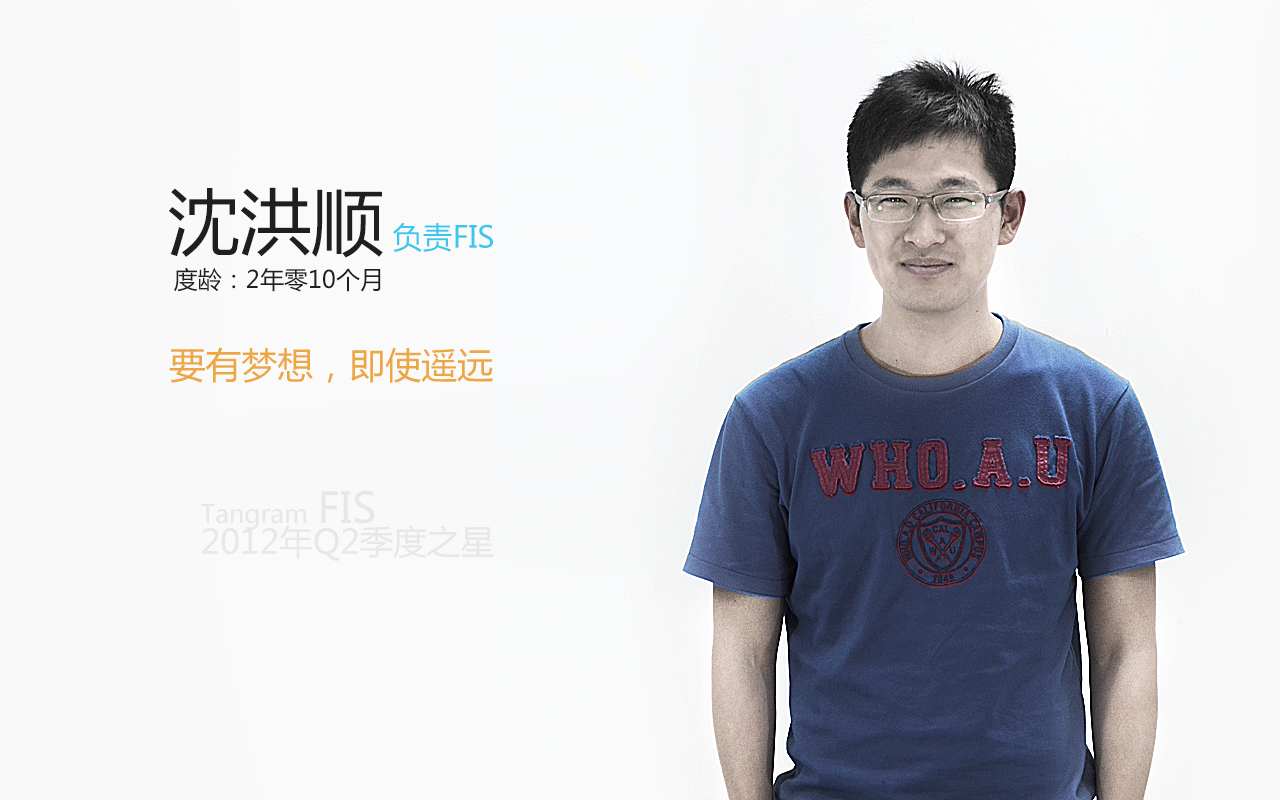
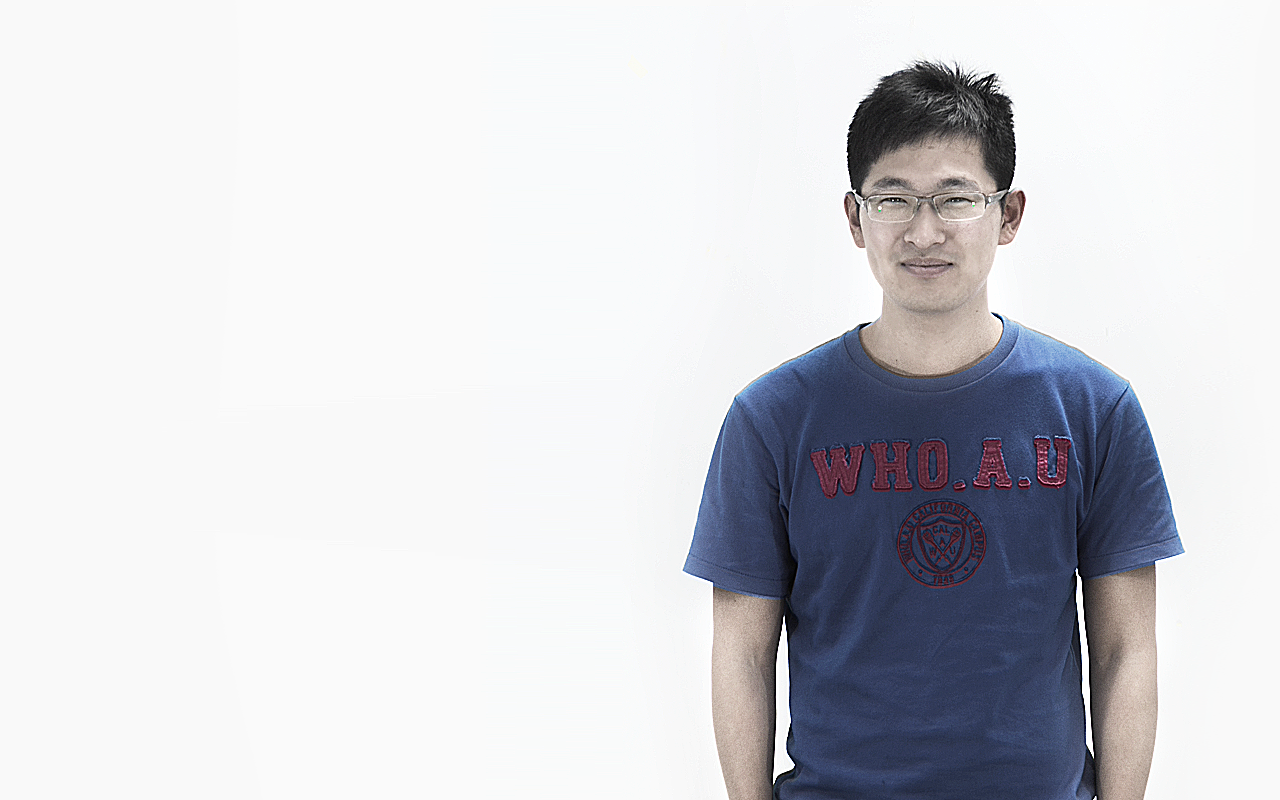
archive layers

Changed region(s): [[0.125, 0.2188, 0.4062, 0.375], [0.125, 0.4375, 0.4062, 0.5]]

diff --git a/fex/fe.css b/fex/fe.css
@@ -68,7 +68,7 @@ body,html,div{overflow:hidden;margin:0;padding:0;font-family:Arial,'Helvetica Ne
 #product .ueditor .download{width:120px;height:35px;position:absolute;left:939px;top:466px;background:url("topic/ueditor/download.png") no-repeat;padding-top:94px;color:#fff;font:30.29px "Microsoft YaHei"}
 #product .ueditor .specialty{width:120px;height:35px;position:absolute;left:1122px;top:466px;background:url("topic/ueditor/specialty.png") no-repeat;padding-top:94px;color:#fff;font:30.29px "Microsoft YaHei"}
 #archive{background-color:#f9f9f9;z-index:200}#archive h1{text-align:center;font-size:50px;font-weight:normal;margin:0 auto;padding-top:250px;color:#888;z-index:201}
-#archive #head-container{text-align:center;overflow:visible;position:absolute;bottom:30px;left:0;right:0;height:100px}#archive #head-container .archive-head{width:100px;height:100px;background:url(archive/heads.png);border:solid 3px #fff;border-radius:100px;display:inline-block;position:absolute;opacity:0;z-index:201;left:0;-webkit-tap-highlight-color:rgba(0,0,0,0);-moz-tap-highlight-color:rgba(0,0,0,0);-ms-tap-highlight-color:rgba(0,0,0,0);-o-tap-highlight-color:rgba(0,0,0,0);overflow:visible;-webkit-transition:all .25s ease;-moz-transition:all .25s ease;-ms-transition:all .25s ease;-o-transition:all .25s ease;transition:all .25s ease;-webkit-transform:scale(.5);-moz-transform:scale(.5);-ms-transform:scale(.5);-o-transform:scale(.5);transform:scale(.5)}#archive #head-container .archive-head:after{content:' ';display:block;width:106px;height:106px;border-radius:106px;border:6px solid rgba(0,0,0,0.4);position:absolute;left:-9px;top:-9px}
+#archive #head-container{text-align:center;overflow:visible;position:absolute;bottom:30px;left:0;right:0;height:100px;z-index:210}#archive #head-container .archive-head{width:100px;height:100px;background:url(archive/heads.png);border:solid 3px #fff;border-radius:100px;display:inline-block;position:absolute;opacity:0;z-index:201;left:0;-webkit-tap-highlight-color:rgba(0,0,0,0);-moz-tap-highlight-color:rgba(0,0,0,0);-ms-tap-highlight-color:rgba(0,0,0,0);-o-tap-highlight-color:rgba(0,0,0,0);overflow:visible;-webkit-transition:all .25s ease;-moz-transition:all .25s ease;-ms-transition:all .25s ease;-o-transition:all .25s ease;transition:all .25s ease;-webkit-transform:scale(.5);-moz-transform:scale(.5);-ms-transform:scale(.5);-o-transform:scale(.5);transform:scale(.5)}#archive #head-container .archive-head:after{content:' ';display:block;width:106px;height:106px;border-radius:106px;border:6px solid rgba(0,0,0,0.4);position:absolute;left:-9px;top:-9px}
 #archive #head-container .archive-head.current{-webkit-transform:scale(1);-moz-transform:scale(1);-ms-transform:scale(1);-o-transform:scale(1);transform:scale(1)}
 #archive #head-container .archive-head.m1{background-position:0 0}
 #archive #head-container .archive-head.m2{background-position:-100px 0}
@@ -78,7 +78,8 @@ body,html,div{overflow:hidden;margin:0;padding:0;font-family:Arial,'Helvetica Ne
 #archive #head-container .archive-head.m6{background-position:-500px 0}
 #archive #head-container .archive-head.m7{background-position:-600px 0}
 #archive #head-container .archive-head.m8{background-position:-700px 0}
-#archive #archive-container{position:absolute;bottom:0;width:1280px;height:800px;top:50%;margin-top:-400px;left:50%;margin-left:-640px}#archive #archive-container img{position:absolute}
+#archive #archive-container,#archive #word-container{position:absolute;bottom:0;width:1280px;height:800px;top:50%;margin-top:-400px;left:50%;margin-left:-640px;z-index:204}#archive #archive-container img,#archive #word-container img{position:absolute}
+#archive #word-container{z-index:205}
 #team{background:#fff;z-index:300}#team h1{text-align:center;font-size:24px;font-weight:normal;margin:0 auto;padding-top:100px}
 #team #team-container{position:absolute;bottom:50px;height:300px;padding:0 50px;overflow:hidden;white-space:nowrap;z-index:302;left:0;-webkit-backface-visibility:hidden}#team #team-container .team-member{width:100px;height:300px;display:inline-block;background-repeat:no-repeat;-webkit-backface-visibility:hidden}#team #team-container .team-member.see-left{background-position:-100px 0}
 #team #team-container .team-member.see-right{background-position:-200px 0}

diff --git a/fex/fe.js b/fex/fe.js
@@ -380,8 +380,15 @@ baidu(function(){
                 container : '#archive-container',
                 duration: 1000,
                 allowFold: true,
-                effect: ['fold', 'fade']
+                effect: ['fade']
             });
+            var ws = this.slideShow2 = new SlideShow({
+                container : '#word-container',
+                duration: 1500,
+                direction: 'Y',
+                allowFold: true,
+                effect: ['fold', 'fade']
+            })
             var _this = this, index;
             var heads = this.heads
                 .on('mouseenter', function(e){
@@ -392,7 +399,8 @@ baidu(function(){
                 });
 
             function active(index) {
-                _this.slideShow.slide(index);
+                ss.slide(index);
+                ws.slide(index);
                 heads.filter('.current').removeClass('current');
                 heads.eq(index).addClass('current');
             }
@@ -409,6 +417,7 @@ baidu(function(){
             });
 
             this.fit('#archive-container');
+            this.fit('#word-container');
         })
         .on('resize', function(width){
             this.layout();

diff --git a/fex/fe.less b/fex/fe.less
@@ -775,8 +775,10 @@ body, html, div {
                 background-position: -700px 0;
             }
         }
+        z-index: 210;
     }
-    #archive-container {
+    #archive-container,
+    #word-container {
         position: absolute;
         bottom: 0;
         width: 1280px;
@@ -788,6 +790,10 @@ body, html, div {
         img {
             position: absolute;
         }
+        z-index: 204;
+    }
+    #word-container {
+        z-index: 205;
     }
 }
 

diff --git a/index.php b/index.php
@@ -179,6 +179,16 @@
                 <div class="archive-head m7"></div>
                 <div class="archive-head m8"></div>
             </div>
+            <div id="word-container">
+                <img src="fex/archive/1_word.png" />
+                <img src="fex/archive/2_word.png" />
+                <img src="fex/archive/3_word.png" />
+                <img src="fex/archive/4_word.png" />
+                <img src="fex/archive/5_word.png" />
+                <img src="fex/archive/6_word.png" />
+                <img src="fex/archive/7_word.png" />
+                <img src="fex/archive/8_word.png" />                
+            </div>
             <div id="archive-container">
                 <img src="fex/archive/1.png" />
                 <img src="fex/archive/2.png" />
